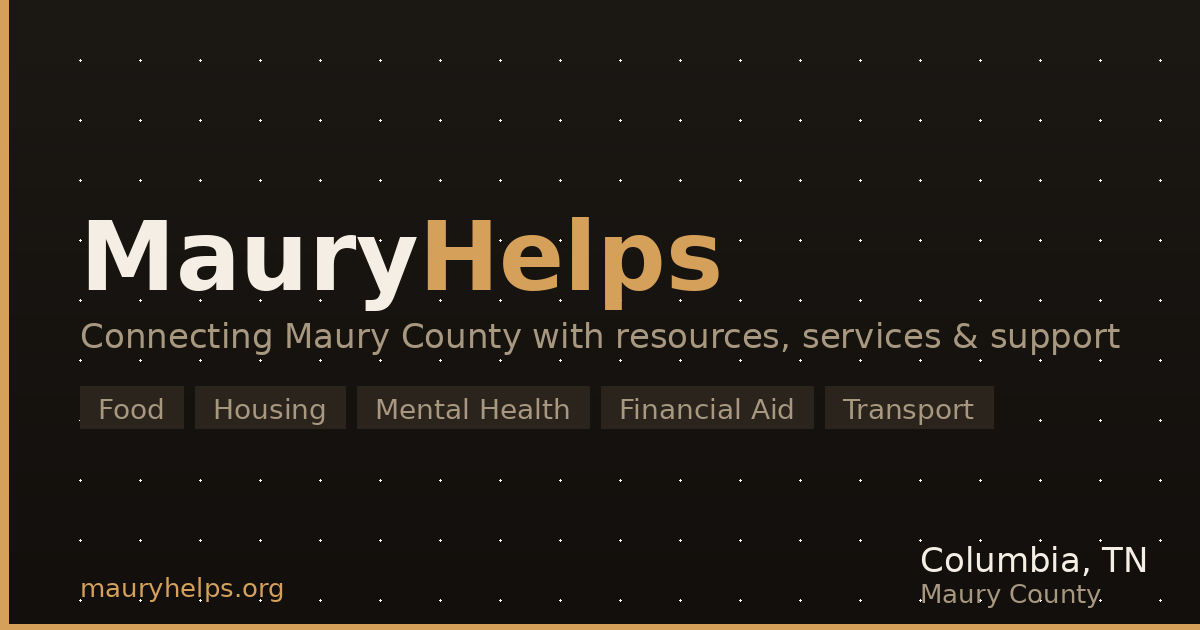
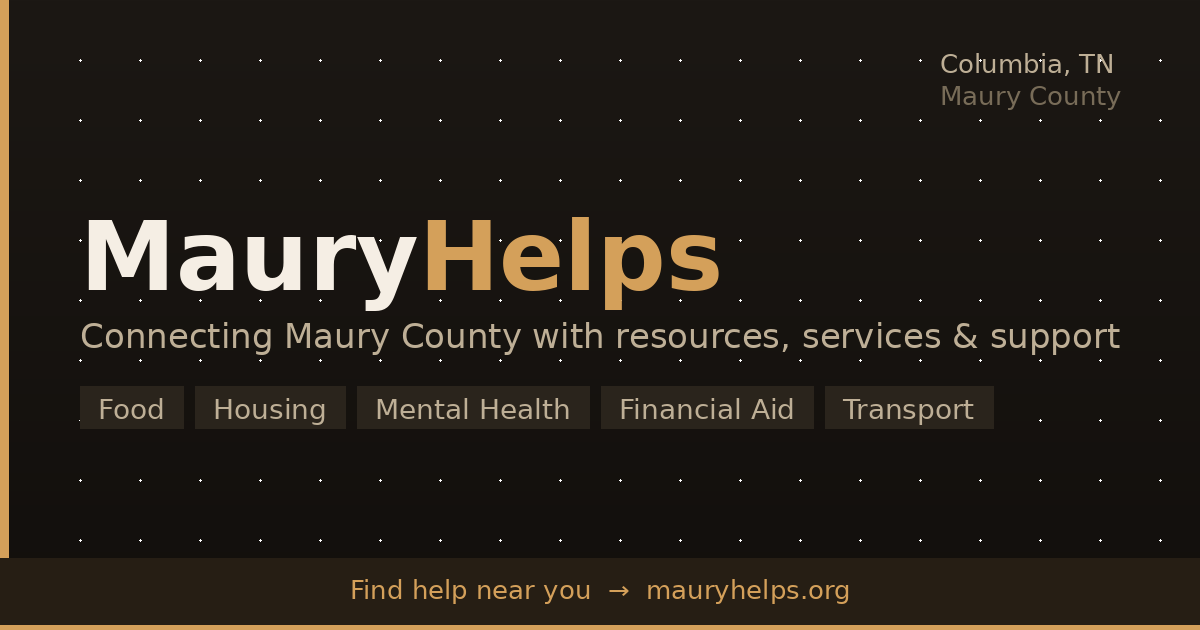
Fix OG meta warnings; update share image with CTA
- Page title expanded to 50 chars for SEO
- og:description trimmed to ~110 chars (was 157, truncates at ~125)
- OG image: added "Find help near you → mauryhelps.org" CTA bar,
  improved text contrast, moved location to top-right

Claude-Session: https://claude.ai/code/session_01LpExLK1zVTaoBD6V88USsJ

diff --git a/index.html b/index.html
@@ -3,21 +3,21 @@
 <head>
 <meta charset="UTF-8">
 <meta name="viewport" content="width=device-width, initial-scale=1.0">
-<title>MauryHelps</title>
-<meta name="description" content="Connecting Maury County, TN with local resources, services, and support — food, housing, mental health, financial aid, and more.">
+<title>MauryHelps — Local Resources for Maury County, TN</title>
+<meta name="description" content="Find local help in Maury County, TN — food, housing, mental health, financial aid, transport & more. Free community resource directory.">
 <!-- Open Graph / Social sharing -->
 <meta property="og:type" content="website">
 <meta property="og:url" content="https://mauryhelps.org/">
-<meta property="og:title" content="MauryHelps — Maury County, TN Resources">
-<meta property="og:description" content="Find local help or share what you have. Food, housing, mental health, financial aid, transport, and more across Columbia, Spring Hill, Mt. Pleasant & beyond.">
+<meta property="og:title" content="MauryHelps — Local Resources for Maury County, TN">
+<meta property="og:description" content="Find local help in Maury County — food, housing, mental health, financial aid, transport & more. Free and open to everyone.">
 <meta property="og:image" content="https://mauryhelps.org/og-image.png">
 <meta property="og:image:width" content="1200">
 <meta property="og:image:height" content="630">
 <meta property="og:site_name" content="MauryHelps">
 <!-- Twitter / X card -->
 <meta name="twitter:card" content="summary_large_image">
-<meta name="twitter:title" content="MauryHelps — Maury County, TN Resources">
-<meta name="twitter:description" content="Find local help or share what you have. Food, housing, mental health, financial aid, transport, and more across Maury County.">
+<meta name="twitter:title" content="MauryHelps — Local Resources for Maury County, TN">
+<meta name="twitter:description" content="Find local help in Maury County — food, housing, mental health, financial aid, transport & more. Free and open to everyone.">
 <meta name="twitter:image" content="https://mauryhelps.org/og-image.png">
 <link href="https://fonts.googleapis.com/css2?family=DM+Serif+Display:ital@0;1&family=DM+Sans:wght@300;400;500;600&display=swap" rel="stylesheet">
 <style>
